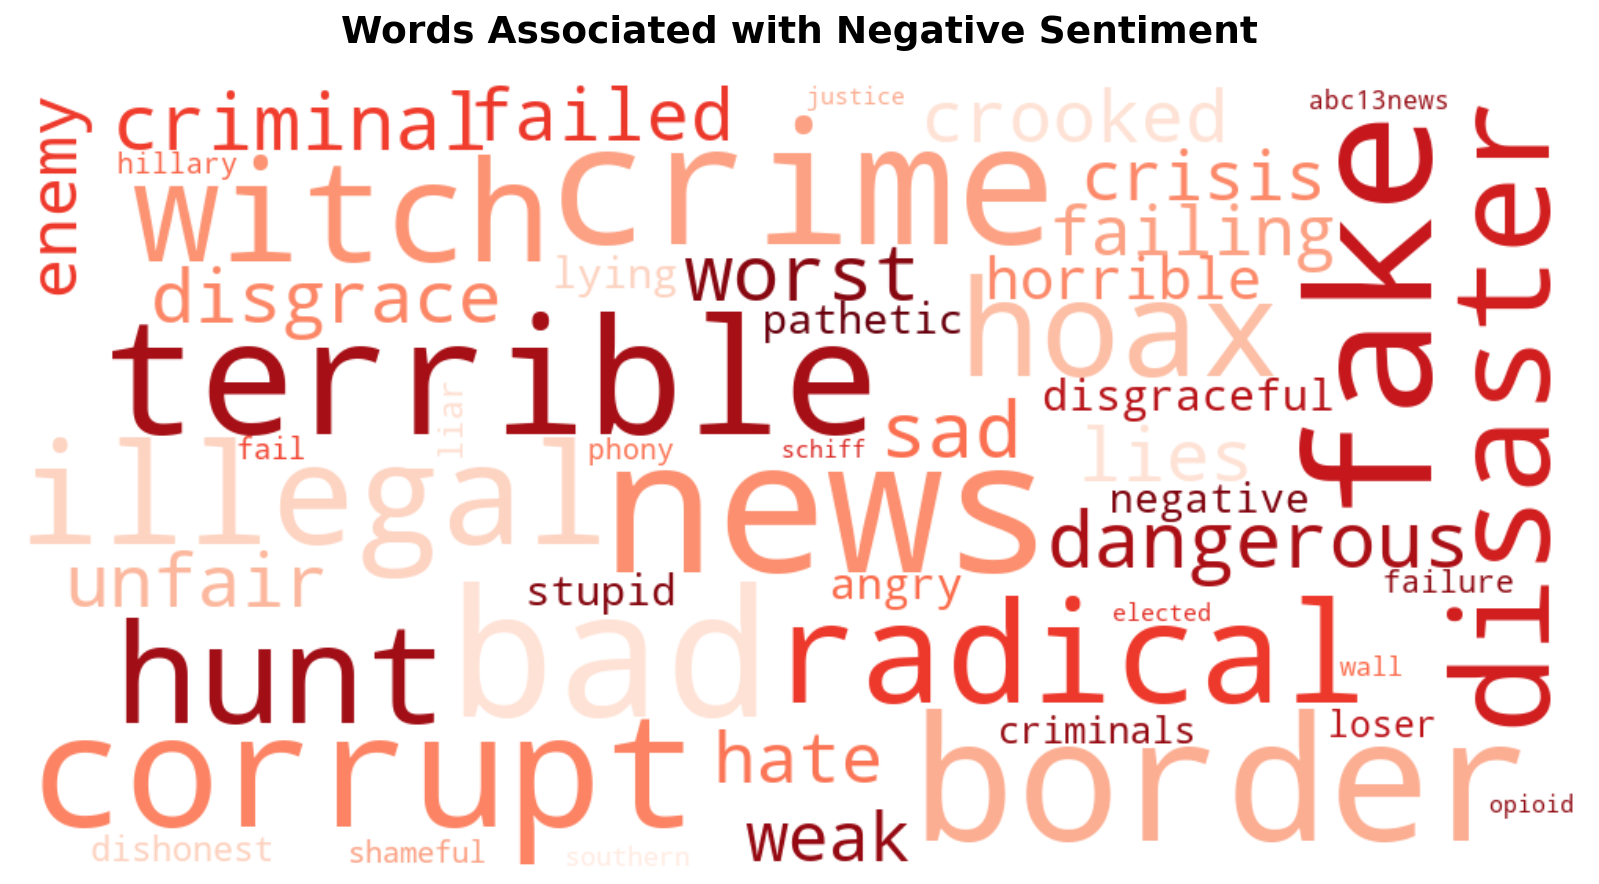
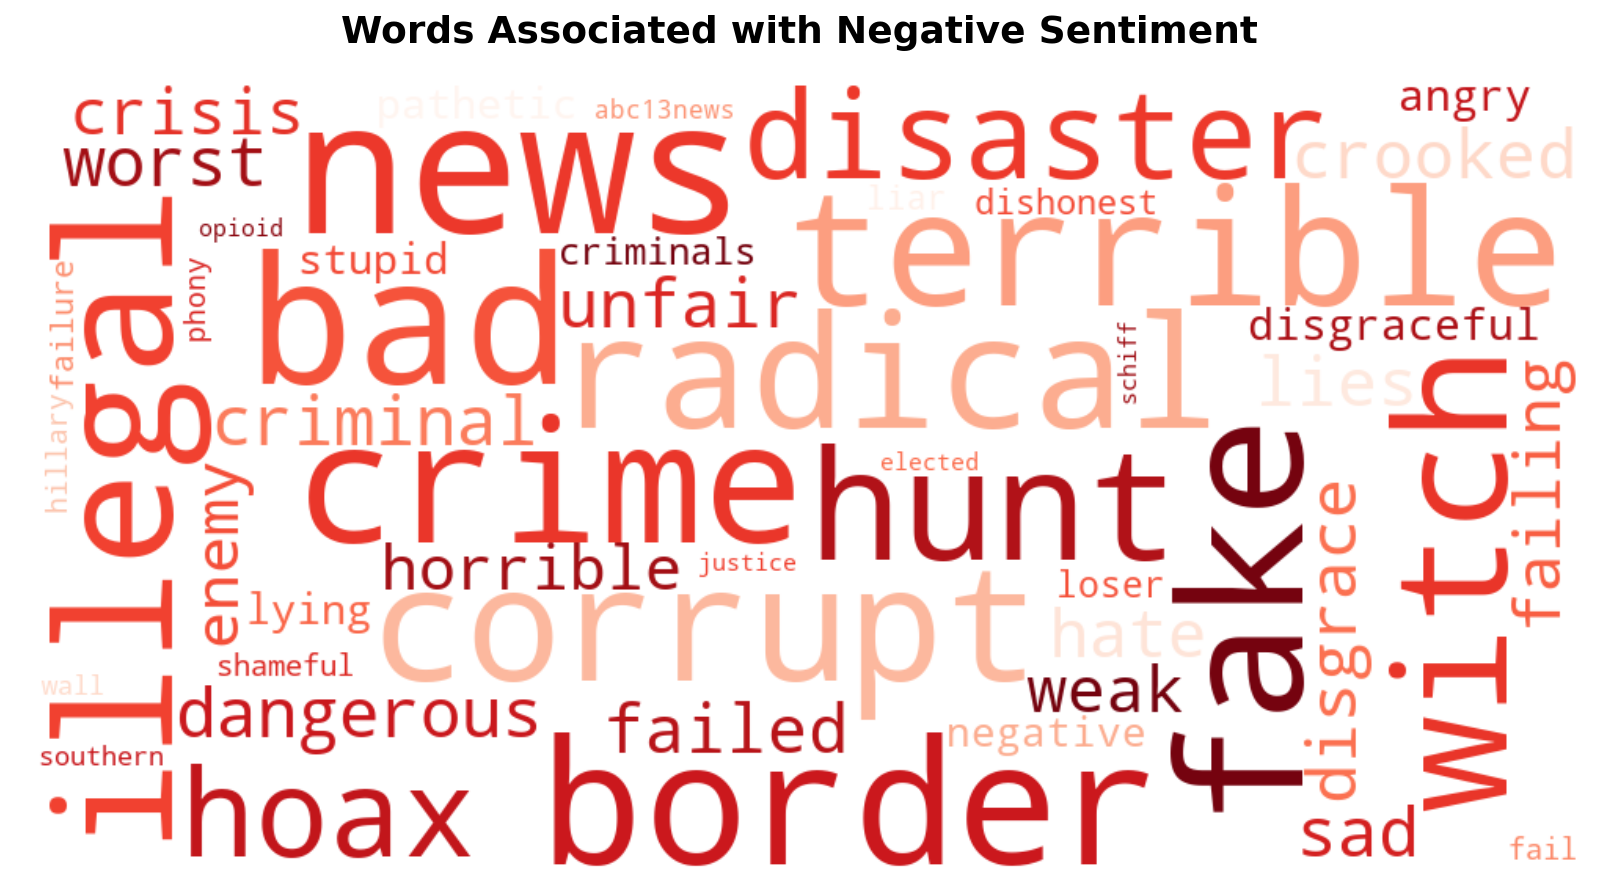
update

diff --git a/scripts/preprocess_validate.py b/scripts/preprocess_validate.py
@@ -9,18 +9,22 @@ This script:
 3. Removes duplicates
 4. Creates temporal and text features
 5. Detects outliers in tweet length
-6. Saves processed data to data/processed/
+6. Generates validation figures (correlation matrix, anomaly detection)
+7. Saves processed data to data/processed/
 
 Usage: python scripts/preprocess_validate.py [OPTIONS]
 
 Options:
 --raw_data    Path to raw CSV file (default: data/raw/realDonaldTrump_in_office.csv)
 --write_to    Path to save processed CSV (default: data/processed/trump_tweets_processed.csv)
+--plot_to     Directory to save validation figures (default: results/figures)
 """
 
 import click
 import os
 import sys
+import matplotlib.pyplot as plt
+import seaborn as sns
 
 # Add parent directory to path for imports
 sys.path.append(os.path.join(os.path.dirname(__file__), '..'))
@@ -36,13 +40,15 @@ from src.data_utils import (
 @click.command()
 @click.option('--raw_data', type=str, required=False, default="data/raw/realDonaldTrump_in_office.csv", help='Path to raw CSV file')
 @click.option('--write_to', type=str, required=False, default="data/processed/trump_tweets_processed.csv", help='Path to save processed CSV file')
-def main(raw_data: str, write_to: str):
+@click.option('--plot_to', type=str, required=False, default="results/figures", help='Directory to save validation figures')
+def main(raw_data: str, write_to: str, plot_to: str):
     """Preprocess and validate raw Trump tweets data."""
 
-    # Create output directory if it doesn't exist
+    # Create output directories if they don't exist
     output_dir = os.path.dirname(write_to)
     if output_dir:
         os.makedirs(output_dir, exist_ok=True)
+    os.makedirs(plot_to, exist_ok=True)
 
     # Parse raw CSV data
     print("PARSING RAW DATA")
@@ -79,6 +85,72 @@ def main(raw_data: str, write_to: str):
     print(f"\nIQR bounds: [{lower_bound:.1f}, {upper_bound:.1f}]")
     print(f"Number of detected outliers: {outlier_count}")
     print("(Outliers are retained for analysis - they represent valid long/short tweets)")
+
+    # Generate validation figures
+    # 1. Correlation matrix heatmap
+    print("Creating correlation matrix...")
+    numeric_cols = ['length', 'hour', 'weekday', 'year', 'month', 'day',
+                    'avg_word_length', 'word_count', 'punctuation_count']
+    corr_matrix = tweets[numeric_cols].corr()
+
+    fig, ax = plt.subplots(figsize=(10, 8))
+    sns.heatmap(corr_matrix, annot=True, cmap='coolwarm', ax=ax, fmt='.2f',
+                center=0, square=True, linewidths=0.5)
+    ax.set_title('Feature Correlation Matrix', fontsize=14, fontweight='bold')
+    plt.tight_layout()
+    corr_path = os.path.join(plot_to, "correlation_matrix.png")
+    fig.savefig(corr_path, dpi=150, bbox_inches='tight', facecolor='white')
+    plt.close()
+    print(f"Saved: {corr_path}")
+
+    # 2. Outlier/Anomaly detection visualization (boxplots)
+    print("Creating anomaly detection visualization...")
+    fig, axes = plt.subplots(2, 2, figsize=(12, 10))
+
+    # Tweet length boxplot
+    sns.boxplot(x=tweets['length'], ax=axes[0, 0], color='steelblue')
+    axes[0, 0].set_title('Tweet Length Distribution', fontweight='bold')
+    axes[0, 0].set_xlabel('Character Count')
+
+    # Word count boxplot
+    sns.boxplot(x=tweets['word_count'], ax=axes[0, 1], color='seagreen')
+    axes[0, 1].set_title('Word Count Distribution', fontweight='bold')
+    axes[0, 1].set_xlabel('Number of Words')
+
+    # Average word length boxplot
+    sns.boxplot(x=tweets['avg_word_length'], ax=axes[1, 0], color='coral')
+    axes[1, 0].set_title('Average Word Length Distribution', fontweight='bold')
+    axes[1, 0].set_xlabel('Average Word Length')
+
+    # Punctuation count boxplot
+    sns.boxplot(x=tweets['punctuation_count'], ax=axes[1, 1], color='orchid')
+    axes[1, 1].set_title('Punctuation Count Distribution', fontweight='bold')
+    axes[1, 1].set_xlabel('Number of Punctuation Marks')
+
+    plt.suptitle('Anomaly Detection: Feature Distributions with Outliers',
+                 fontsize=14, fontweight='bold', y=1.0)
+    plt.tight_layout()
+    anomaly_path = os.path.join(plot_to, "anomaly_detection.png")
+    fig.savefig(anomaly_path, dpi=150, bbox_inches='tight', facecolor='white')
+    plt.close()
+    print(f"Saved: {anomaly_path}")
+
+    # 3. Feature distributions histogram
+    print("Creating feature distributions...")
+    fig, axes = plt.subplots(3, 3, figsize=(14, 12))
+    axes = axes.flatten()
+
+    for i, col in enumerate(numeric_cols):
+        sns.histplot(tweets[col], ax=axes[i], kde=True, color='steelblue')
+        axes[i].set_title(f'{col}', fontweight='bold')
+        axes[i].set_xlabel('')
+
+    plt.suptitle('Feature Distributions', fontsize=14, fontweight='bold', y=1.0)
+    plt.tight_layout()
+    dist_path = os.path.join(plot_to, "feature_distributions.png")
+    fig.savefig(dist_path, dpi=150, bbox_inches='tight', facecolor='white')
+    plt.close()
+    print(f"Saved: {dist_path}")
 
     # Save processed data
     print("SAVING PROCESSED DATA")
